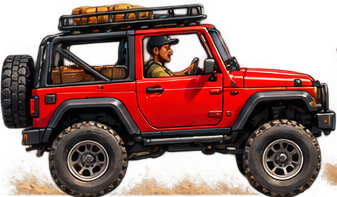
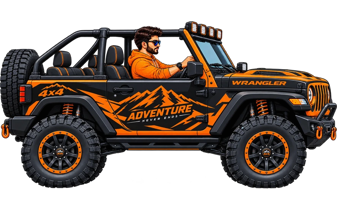
Hill Climb Racer: replace all cars with the 4 new Jeeps (Adventure Wrangler, Red Rubicon, Blue Rubicon, Yellow Raptor)
- new body sprites + spinning wheel discs, garage cards, HUD marker
- roster: 4 jeeps (bikes unchanged); removed old car art
- save migration (vset 3): refunds old car purchases

diff --git a/public/games/hillclimb-racing/real.js b/public/games/hillclimb-racing/real.js
@@ -1,11 +1,11 @@
 'use strict';
 /* Hillclimb Racing - CURATED vehicle roster (loaded after veh2.js, replaces every earlier vehicle).
-   Only complete, uncropped, full-quality art is used: 8 cars + 4 bikes, each with its driver baked in.
+   Roster: 4 Jeep cars (Adventure Wrangler, Red Rubicon, Blue Rubicon, Yellow Raptor) + 4 bikes, each with its driver baked in.
    Sprites face right (mirrored from the source art; text and badges are re-mirrored so they read correctly), wheel centres are levelled,
    shadows/labels are removed, and the car rims are separate spinning discs (brake calipers removed so they never rotate).
    Per-vehicle numbers: s = game units per sprite px, mx/Y0 = sprite px that map to the vehicle origin, wr/wf = rear/front wheel [x,y,r] in sprite px,
    head = driver head centre in game units, ext = [rear,front] extent in game units. */
-const REAL_DATA=[{"vi":0,"cls":"car","n":"Scarlet GT","file":"real/c0.webp","W":650,"H":250,"s":0.35833,"mx":304.7,"Y0":130.6,"R":21.5,"wr":[105.8,190.6,59.4],"wf":[503.7,190.6,60.6],"head":[-10.9,-35.4],"ext":[-109.2,123.4],"cost":0,"pw":1.0,"gr":1.0,"fu":1.0,"st":3,"vm":1.0,"disc":["real/c0_r.png","real/c0_f.png"],"dr":[48.7,49.7]},{"vi":1,"cls":"car","n":"Cobalt Z","file":"real/c1.webp","W":664,"H":253,"s":0.35833,"mx":316.5,"Y0":130.6,"R":21.5,"wr":[112.1,190.6,58.9],"wf":[520.8,190.6,61.1],"head":[-13.7,-35.4],"ext":[-113.4,124.2],"cost":2500,"pw":1.12,"gr":1.05,"fu":1.05,"st":3,"vm":1.04,"disc":["real/c1_r.png","real/c1_f.png"],"dr":[48.3,50.1]},{"vi":2,"cls":"car","n":"Venom Spyder","file":"real/c2.webp","W":748,"H":259,"s":0.35833,"mx":284.9,"Y0":126.1,"R":21.5,"wr":[82.6,186.1,57.2],"wf":[487.3,186.1,62.8],"head":[10.2,-33.8],"ext":[-102.1,165.6],"cost":5500,"pw":1.24,"gr":1.1,"fu":1.1,"st":4,"vm":1.08,"disc":["real/c2_r.png","real/c2_f.png"],"dr":[46.9,51.5]},{"vi":3,"cls":"car","n":"Sapphire 911","file":"real/c3.webp","W":687,"H":210,"s":0.35833,"mx":299.9,"Y0":91.1,"R":21.5,"wr":[103.0,151.1,59.2],"wf":[496.7,151.1,60.8],"head":[-8.5,-21.2],"ext":[-107.5,138.4],"cost":9000,"pw":1.36,"gr":1.16,"fu":1.15,"st":4,"vm":1.12,"disc":["real/c3_r.png","real/c3_f.png"],"dr":[48.5,49.9]},{"vi":4,"cls":"car","n":"Solar 750","file":"real/c4.webp","W":704,"H":223,"s":0.35833,"mx":291.0,"Y0":98.6,"R":21.5,"wr":[75.7,158.6,57.4],"wf":[506.2,158.6,62.6],"head":[0.2,-23.9],"ext":[-104.3,147.7],"cost":14000,"pw":1.5,"gr":1.22,"fu":1.2,"st":5,"vm":1.16,"disc":["real/c4_r.png","real/c4_f.png"],"dr":[47.1,51.3]},{"vi":5,"cls":"car","n":"Blaze 911","file":"real/c5.webp","W":631,"H":229,"s":0.35833,"mx":269.4,"Y0":107.7,"R":21.5,"wr":[86.9,167.7,58.3],"wf":[451.9,167.7,61.7],"head":[-2.4,-27.2],"ext":[-96.5,129.2],"cost":19000,"pw":1.62,"gr":1.28,"fu":1.28,"st":5,"vm":1.2,"disc":["real/c5_r.png","real/c5_f.png"],"dr":[47.8,50.6]},{"vi":6,"cls":"car","n":"Emerald V","file":"real/c6.webp","W":659,"H":242,"s":0.35833,"mx":284.9,"Y0":119.7,"R":21.5,"wr":[88.0,179.7,57.4],"wf":[481.9,179.7,62.6],"head":[-1.8,-31.5],"ext":[-102.1,133.7],"cost":26000,"pw":1.75,"gr":1.34,"fu":1.35,"st":5,"vm":1.25,"disc":["real/c6_r.png","real/c6_f.png"],"dr":[47.1,51.3]},{"vi":7,"cls":"bike","n":"Crimson V4","file":"real/b7.webp","W":879,"H":603,"s":0.225,"mx":422.1,"Y0":350.8,"R":27,"wr":[111.4,470.8,126.2],"wf":[732.8,470.8,113.8],"head":[14.0,-65.4],"ext":[-95.0,102.6],"cost":3500,"pw":1.25,"gr":1.1,"fu":1.0,"st":4,"vm":1.1},{"vi":8,"cls":"bike","n":"Venom R","file":"real/b8.webp","W":907,"H":607,"s":0.225,"mx":433.3,"Y0":356.1,"R":27,"wr":[113.6,476.1,128.6],"wf":[753.0,476.1,111.4],"head":[12.4,-66.6],"ext":[-97.5,106.3],"cost":8000,"pw":1.45,"gr":1.18,"fu":1.1,"st":4,"vm":1.18},{"vi":9,"cls":"bike","n":"Royal R1","file":"real/b9.webp","W":878,"H":610,"s":0.225,"mx":426.8,"Y0":359.1,"R":27,"wr":[113.5,479.1,125.1],"wf":[740.0,479.1,114.9],"head":[10.6,-67.3],"ext":[-96.0,101.3],"cost":14000,"pw":1.65,"gr":1.26,"fu":1.2,"st":5,"vm":1.25},{"vi":10,"cls":"car","n":"Hill Climb Racer 4x4","file":"real/c10.webp","W":628,"H":307,"s":0.35833,"mx":279.5,"Y0":186.3,"R":21.5,"wr":[90.1,246.3,58.8],"wf":[469.0,246.3,61.2],"head":[6.6,-49.8],"ext":[-100.2,124.5],"cost":30000,"pw":1.55,"gr":1.5,"fu":1.3,"st":5,"vm":1.1,"disc":["real/c10_r.png","real/c10_f.png"],"dr":[36.4,38.0]},{"vi":11,"cls":"bike","n":"Jade ZX-6R","file":"real/b11.webp","W":841,"H":597,"s":0.225,"mx":422.2,"Y0":354.8,"R":27,"wr":[123.3,474.8,120.3],"wf":[721.2,474.8,119.7],"head":[-0.9,-66.3],"ext":[-95.0,94.0],"cost":20000,"pw":1.85,"gr":1.32,"fu":1.2,"st":5,"vm":1.3}];
+const REAL_DATA=[{"vi":0,"cls":"car","n":"Adventure Wrangler","file":"real/j0.webp","W":887,"H":444,"s":0.207,"mx":438.8,"Y0":240.9,"R":21.5,"wr":[168.5,344.8,101.0],"wf":[709.0,344.8,100.5],"head":[-10.1,-36.9],"ext":[-90.8,92.8],"cost":0,"pw":1.0,"gr":1.0,"fu":1.0,"st":3,"vm":1.0,"disc":["real/j0_r.png","real/j0_f.png"],"dr":[101.0,100.5]},{"vi":1,"cls":"car","n":"Red Rubicon","file":"real/j1.webp","W":887,"H":444,"s":0.23699,"mx":438.8,"Y0":266.8,"R":21.5,"wr":[184.0,357.5,87.0],"wf":[693.5,357.5,89.0],"head":[-8.0,-43.1],"ext":[-104.0,106.2],"cost":3000,"pw":1.12,"gr":1.05,"fu":1.05,"st":3,"vm":1.04,"disc":["real/j1_r.png","real/j1_f.png"],"dr":[87.0,89.0]},{"vi":2,"cls":"car","n":"Blue Rubicon","file":"real/j2.webp","W":887,"H":444,"s":0.22245,"mx":443.2,"Y0":255.1,"R":21.5,"wr":[181.0,351.8,96.0],"wf":[705.5,351.8,91.5],"head":[-9.6,-37.8],"ext":[-98.6,98.7],"cost":8000,"pw":1.24,"gr":1.1,"fu":1.1,"st":4,"vm":1.08,"disc":["real/j2_r.png","real/j2_f.png"],"dr":[96.0,91.5]},{"vi":3,"cls":"car","n":"Yellow Raptor","file":"real/j3.webp","W":880,"H":444,"s":0.22855,"mx":441.5,"Y0":260.2,"R":21.5,"wr":[182.5,354.2,90.5],"wf":[700.5,354.2,92.0],"head":[-10.5,-40.6],"ext":[-100.9,100.2],"cost":15000,"pw":1.36,"gr":1.16,"fu":1.15,"st":4,"vm":1.12,"disc":["real/j3_r.png","real/j3_f.png"],"dr":[90.5,92.0]},{"vi":7,"cls":"bike","n":"Crimson V4","file":"real/b7.webp","W":879,"H":603,"s":0.225,"mx":422.1,"Y0":350.8,"R":27,"wr":[111.4,470.8,126.2],"wf":[732.8,470.8,113.8],"head":[14.0,-65.4],"ext":[-95.0,102.6],"cost":3500,"pw":1.25,"gr":1.1,"fu":1.0,"st":4,"vm":1.1},{"vi":8,"cls":"bike","n":"Venom R","file":"real/b8.webp","W":907,"H":607,"s":0.225,"mx":433.3,"Y0":356.1,"R":27,"wr":[113.6,476.1,128.6],"wf":[753.0,476.1,111.4],"head":[12.4,-66.6],"ext":[-97.5,106.3],"cost":8000,"pw":1.45,"gr":1.18,"fu":1.1,"st":4,"vm":1.18},{"vi":9,"cls":"bike","n":"Royal R1","file":"real/b9.webp","W":878,"H":610,"s":0.225,"mx":426.8,"Y0":359.1,"R":27,"wr":[113.5,479.1,125.1],"wf":[740.0,479.1,114.9],"head":[10.6,-67.3],"ext":[-96.0,101.3],"cost":14000,"pw":1.65,"gr":1.26,"fu":1.2,"st":5,"vm":1.25},{"vi":11,"cls":"bike","n":"Jade ZX-6R","file":"real/b11.webp","W":841,"H":597,"s":0.225,"mx":422.2,"Y0":354.8,"R":27,"wr":[123.3,474.8,120.3],"wf":[721.2,474.8,119.7],"head":[-0.9,-66.3],"ext":[-95.0,94.0],"cost":20000,"pw":1.85,"gr":1.32,"fu":1.2,"st":5,"vm":1.3}];
 const OLD_COST=VEH.map(v=>v.cost||0);   /* old roster prices, used once to refund saved purchases */
 const REAL_BY={};
 (function(){

diff --git a/public/games/hillclimb-racing/index.html b/public/games/hillclimb-racing/index.html
@@ -138,6 +138,7 @@ let bgOff=0;
 if(!Array.isArray(S.accOwn))S.accOwn=[];if(!Array.isArray(S.accOn))S.accOn=[];ACC.forEach((_,i)=>{S.accOwn[i]=S.accOwn[i]|0;S.accOn[i]=S.accOn[i]|0});
 /* one-time migration to the curated vehicle roster: refund old purchases (their old prices), keep coins/stars/upgrades */
 if(S.vset!==2){let rf=0;try{(S.own||[]).forEach((o,i)=>{if(o&&i>0)rf+=OLD_COST[i]||0})}catch(e){}S.coins=(S.coins|0)+rf;S.own=[1];S.veh=0;S.pv=0;S.skin=[0];S.tab='car';S.vset=2;try{localStorage.setItem('hcr_v1',JSON.stringify(S))}catch(e){}}
+if(S.vset!==3){let rf=0;const OC={1:2500,2:5500,3:9000,4:14000,5:19000,6:26000,10:30000};try{(S.own||[]).forEach((o,i)=>{if(o&&OC[i])rf+=OC[i]})}catch(e){}S.coins=(S.coins|0)+rf;[1,2,3,4,5,6,10].forEach(i=>{S.own[i]=0});S.veh=VEH[S.veh]&&S.own[S.veh]?S.veh:0;S.pv=S.veh;S.vset=3;try{localStorage.setItem('hcr_v1',JSON.stringify(S))}catch(e){}}
 if(!S.parts||typeof S.parts!=='object')S.parts={};
 S.own[0]=1;S.drvOwn[0]=1;S.outOwn[0]=1;if(!VEH[S.veh]||!S.own[S.veh])S.veh=0;if(!DRV[S.drv]||!S.drvOwn[S.drv])S.drv=0;if(!OUT[S.outfit]||!S.outOwn[S.outfit])S.outfit=0;
 const save=()=>{try{localStorage.setItem('hcr_v1',JSON.stringify(S))}catch(e){}};
